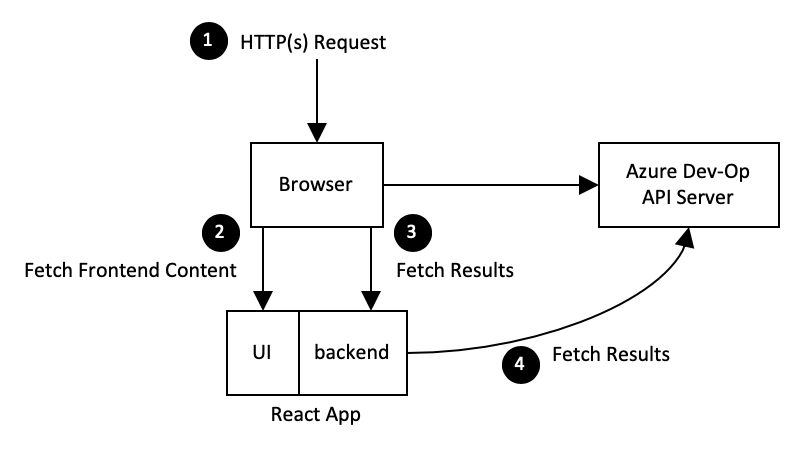
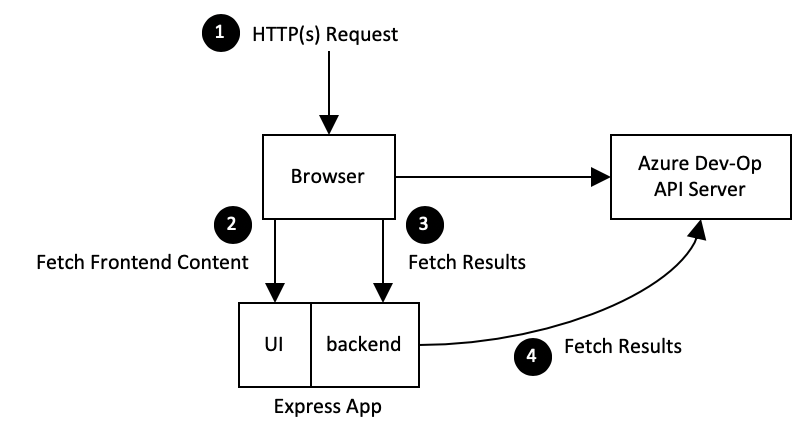
update doc

Changed region(s): [[0.0312, 0.1477, 0.9975, 0.9455], [0.2182, 0.0295, 0.4988, 0.1477], [0.6858, 0.5909, 0.8416, 0.7386]]

diff --git a/design-docs/deploymentDashboard.md b/design-docs/deploymentDashboard.md
@@ -6,27 +6,32 @@ Authors: Samiya Akhtar, Andre Briggs, Dennis Seah
 |--:|--|--|--|
 | 0.1 | Mar-02, 2012 | Dennis Seah | Initial Draft |
 
-## Background
-This design is to fix a few things the current implementation of `spk deployment dasboard` command. They are
-1. Exposing secret and configuration values in the browser.
-2. Cross-origin resource sharing, CORS issue.
+## 1. Overview
+This design is to fix a few things in the current implementation of `spk deployment dasboard` command. They are
+1. Secret and configuration values are exposed in the browser.
+2. Cross-origin resource sharing, CORS issue because HTTP request is initiated from browser to Azure DevOps API Server.
 
-These problems surface because of how the React App is developed and deployed. ![current deployment](currentDeployment.png)
+These problems surface because of how the React App is developed and deployed. 
+<p style="text-align:center">
+<img src="currentDeployment.png" style="width:400px; height:auto">
+</p>
 
 The React App has only a frontend layer hence secret and configuration values need to be sent to the browser in order for the browser to make HTTP call to Azure Dev-Op API server (which leads to CORS error).
 
-## Out of Scope
+## 2. Out of Scope
 This design shall only address the above mentioned issues, see [Background Section](#background). There a few known issues, see [Known issues](#known-issues) section; and they shall be addressed in separate software design proposal.
 
-## Design Details
-A backend layer is introduced in order to fix the above mentioned issues and the landscape looks like this.
-![current deployment](proposedDeployment.png)
+## 3. Design Details
+A backend layer is introduced in order to address the above mentioned issues and the landscape looks like this.
+<p style="text-align:center">
+<img src="proposedDeployment.png" style="width:500px; height:auto">
+</p>
 
-1. Secret and configuration values need not be send to the browser because the backend is making the Azure Dev-Op API calls.
-2. We do not have CORS issue because these HTTP calls are from the backend of the App.
+1. Secret and configuration values need not be sent to the browser because the backend is making the Azure Dev-Op API calls.
+2. We do not have CORS issue because these HTTP calls are made from the backend.
 
-### Building and Running the expressJs App
-The frontend and backend calls are serviced by an expressJS app. This is how this application is built in the workspace.
+### 3.1 Building and Running the Express App
+The frontend and backend are hosted by an Express app. This is how this application is built in the workspace.
 
 1. Building react frontend app
 `react-scripts-ts build`
@@ -35,30 +40,39 @@ The frontend and backend calls are serviced by an expressJS app. This is how thi
 
 All the resources and code for the expressJS app is in the build folder; and the app runs from the folder. All backend calls are prefixed with `api/`.
 
-Secret and configuration values are exposed to the expressJS app via environment parameters; and they are never exposed in the frontend layer.
+Secret and configuration values are exposed to the expressJS app via environment parameters.
 
-### Running React Service Worker
+### 3.2 Running React Service Worker
 ![development setup](devSetup.png)
 In order to faciliate code development (mainly in frontend), the react's worker service is used. And it proxies all requests with `api/` prefix to an Express application running at port 8001.
 
 Similarly, secret and configuration values are exposed to the expressJS app via environment parameters; and they are never exposed in the frontend layer.
 
-## Known issues
+## 4. Dependencies
+None. This is within [spektate](https://github.com/microsoft/spektate).
 
-### Too many calls to Azure Dev-Op API server.
+## 5. Known issues
+
+### 5.1 Too many calls to Azure Dev-Op API server.
 Every call from the frontend to the backend layer shall result in a call to the Azure Dev-Op API server. This can be a huge overhead and this can be resolved by having a caching mechanism in the backend.
 
-### Multiple HTTP calls from frontend to backend API
+### 5.2 Multiple HTTP calls from frontend to backend API
 The frontend layer is making multiple HTTP calls to the backend in order to render a complete view. For instance, one call to get deployments; other call to get author for each deployment; etc. This result in poor user experience.
 
-## Security Concerns
+### 5.3 Access Control of Dashboard
+Once the dashboard is deployed in kubernetes or docker swarm, anyone who has access to the IP address and port is able to see the content of the dashboard.
+
+
+## 6. Risks & Mitigations
 None
 
-## Documentation
+## 7. Documentation
 1. Where is the docker image?
 2. What are the environment parameters to export?
 
-## References
+## A. Appendix
+
+### A.1 References
 1. https://daveceddia.com/create-react-app-express-backend/
 2. https://daveceddia.com/deploy-react-express-app-heroku/
 3. https://docs.docker.com/engine/reference/commandline/run/
